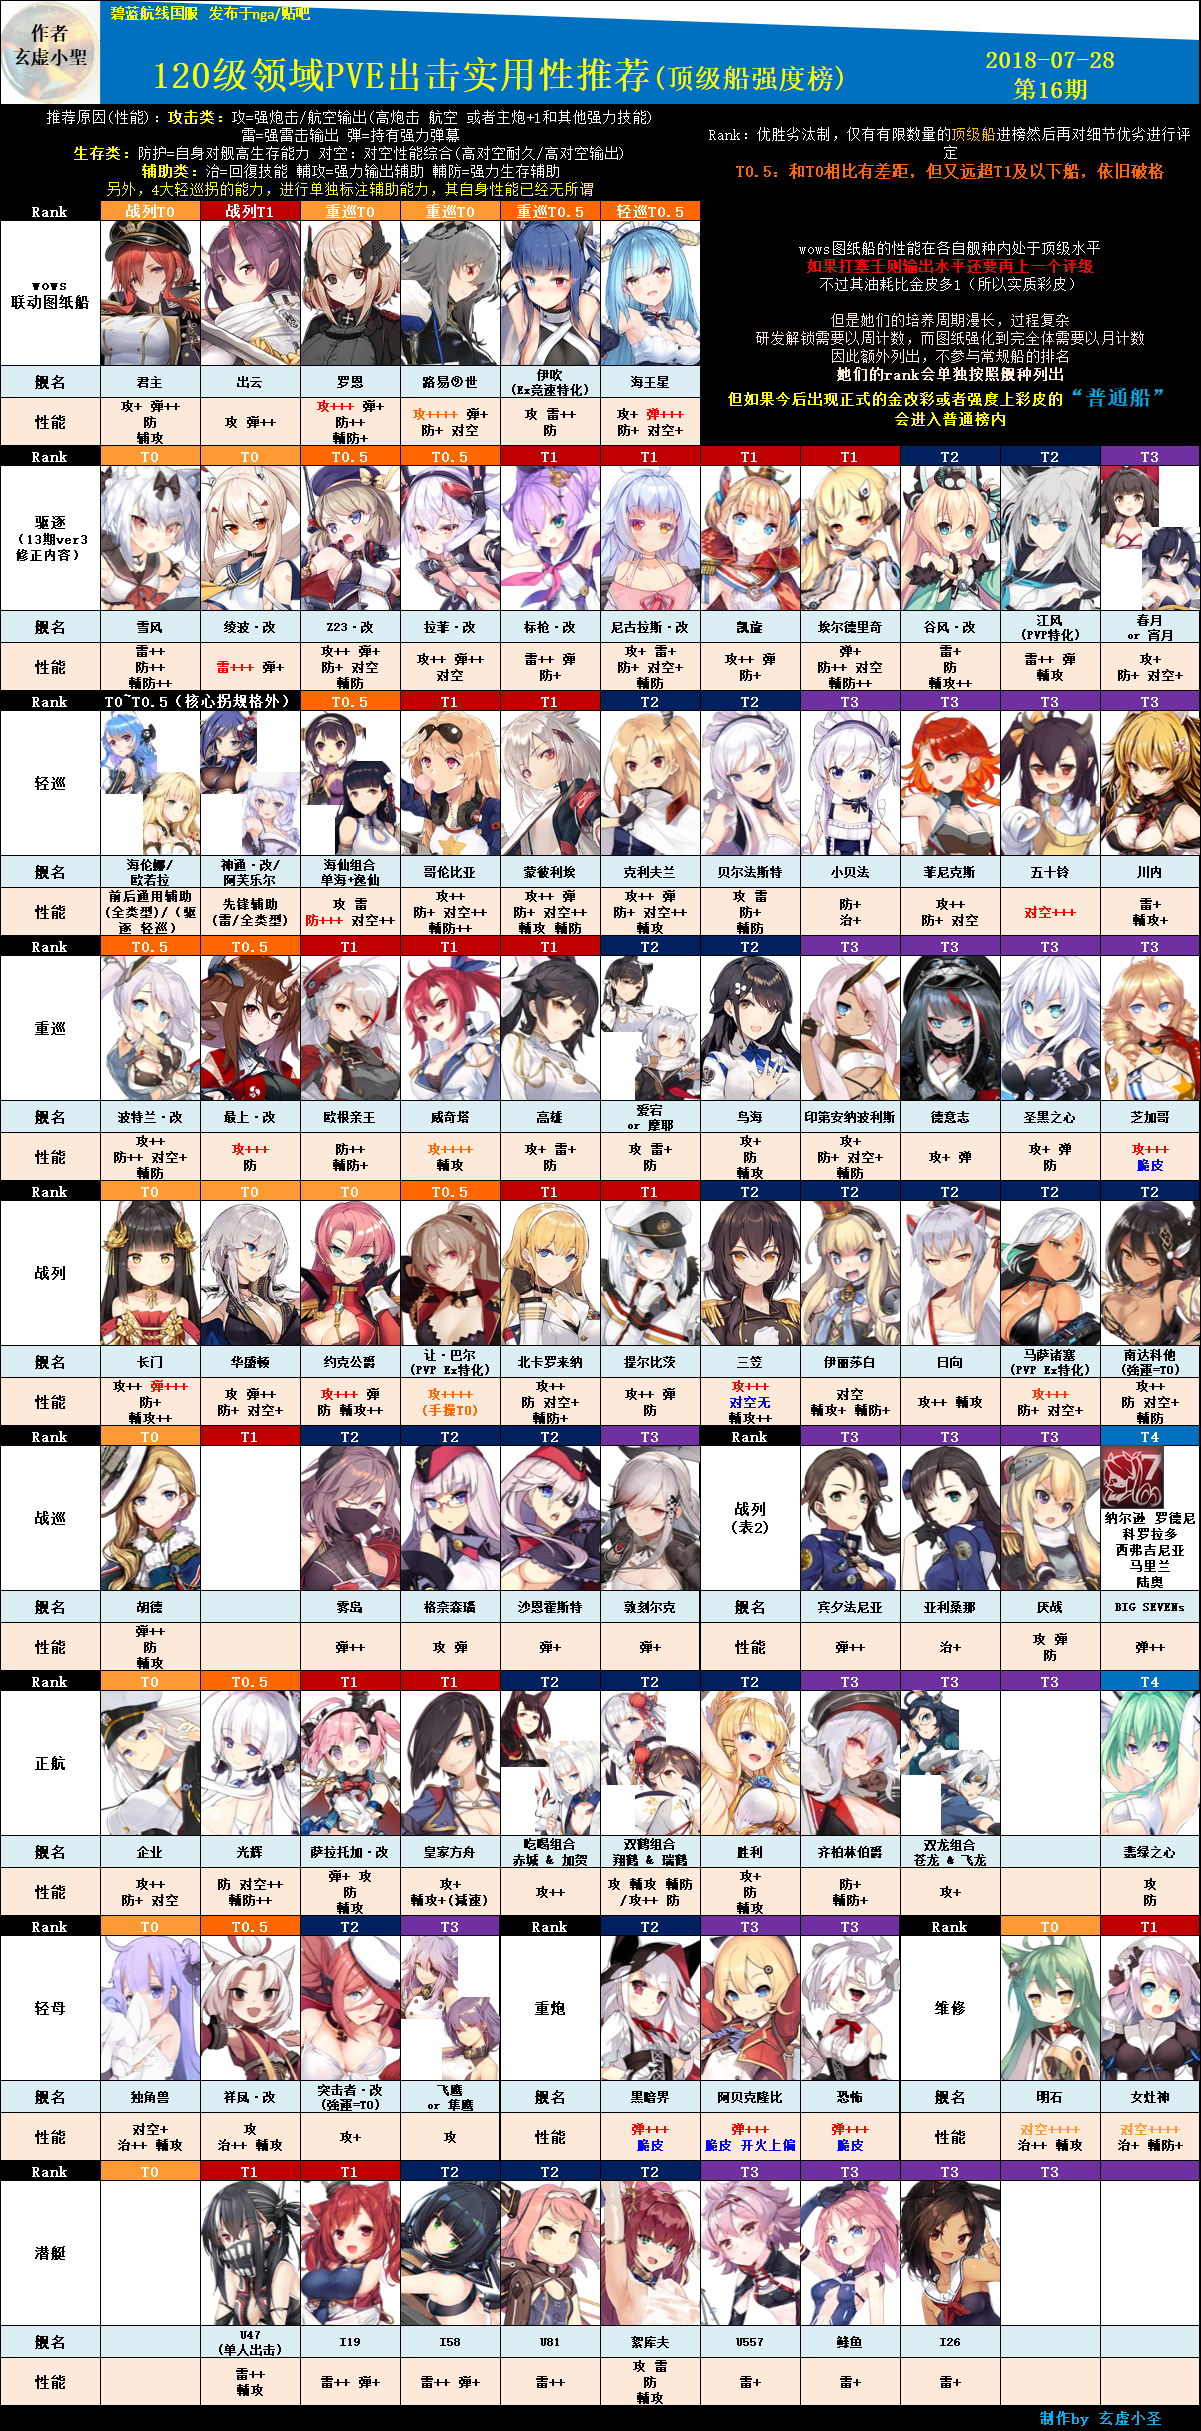
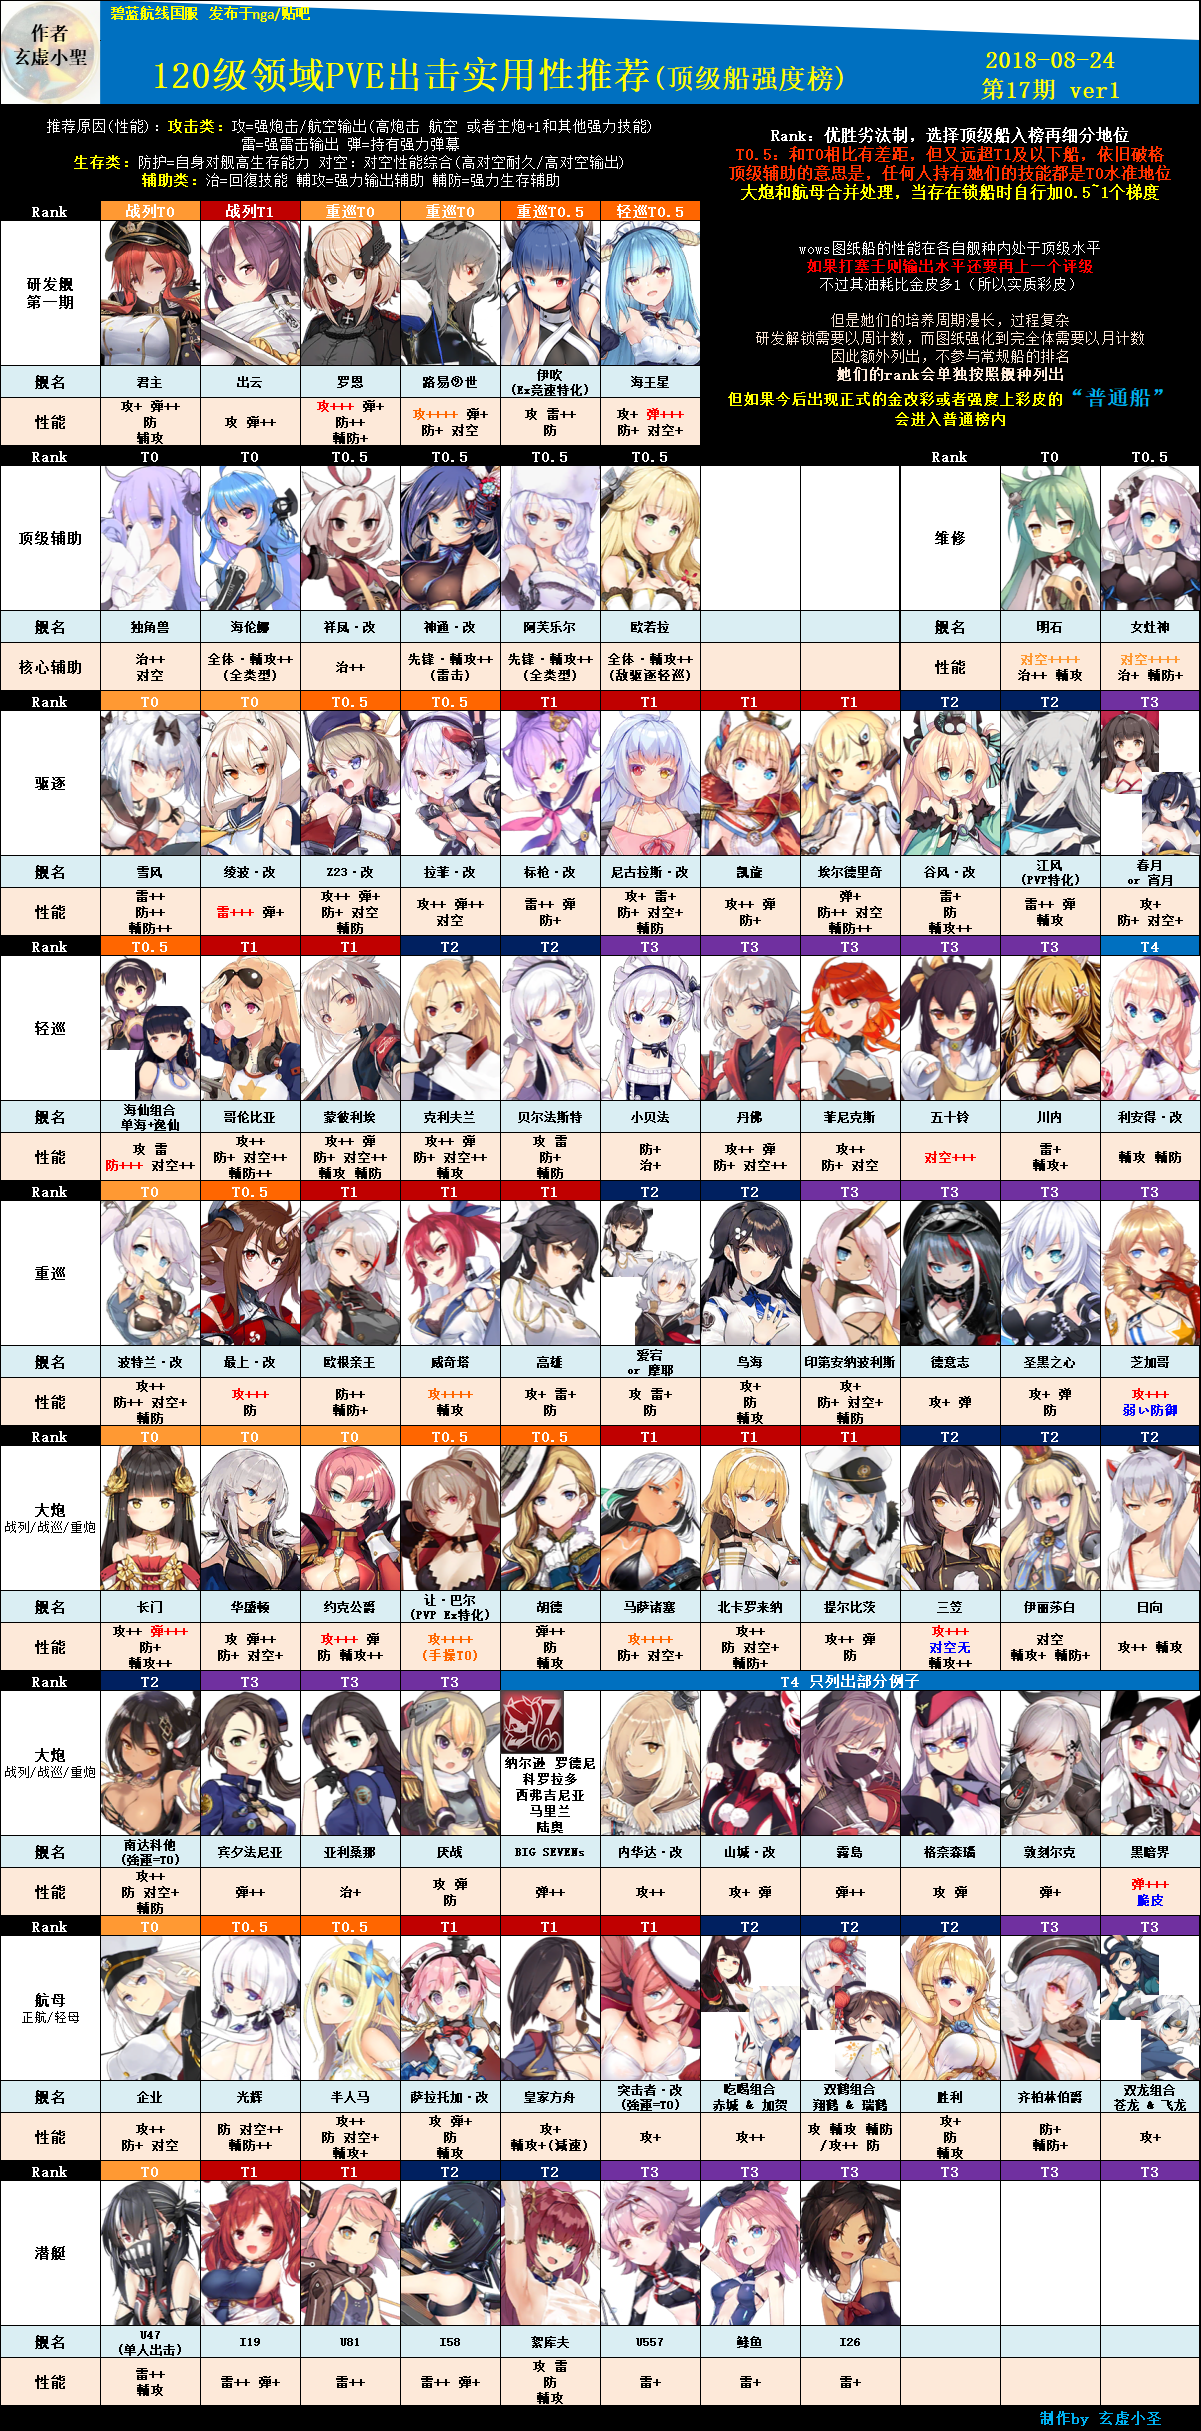
舰娘强度榜更新

diff --git a/碧蓝航线/舰娘强度榜-玄虚小圣 说明.md b/碧蓝航线/舰娘强度榜-玄虚小圣 说明.md
@@ -1,0 +1,64 @@
+## 更新说明:
+
+本期对结构进行优化
+
+将目前显著的顶级辅助单独列出
+
+顶级辅助的意思是，她们的技能强势到自身性能哪怕是可圈可点的(比如神通 海妈)但是主要功绩也是靠辅助技能
+
+可以说辅助技能给任何一个同类船都能取得差不多的地位
+
+然后后排的大炮和航母进行合并
+
+战列战巡重炮合并梯度，正航轻母合并梯度
+
+如果存在锁船，则自行对战巡 重炮 轻母增加0.5~1个梯度用于同类比较即可(根据锁船数量)
+
+这样即是承认，在不需要锁船时，战列战巡重炮的职责近似(打自爆 跨射伤害)，正航和轻母的职责也近似(清弹幕 航空伤害)
+
+当然轻母实质上存在反潜能力，只是目前反潜方式依旧要前排提供声呐，还是有鸡肋(前排反潜就足够)
+
+另外图纸舰虽然完全体已经陆续完成，但是暂时不下放到对应舰种里，要等到二期图纸舰出来
+
+
+## 改动:
+- 驱逐：
+
+    无变化
+
+- 轻巡：
+
+    把一直以来忘掉的丹佛加上，实际上丹佛虽然与火力全开，但是低了5%主炮效率的情况下，反而输出和克利夫兰是持平的，等于是标准白板克利夫兰级
+
+    增加个利安得作为T4举例
+
+    另外，虽然4个顶级辅助不在这一行了，但是神通 海妈 阿芙 欧若拉存在有稀少的，辅助技能无用的情况
+
+    换个形容就是衡量她们的自身素质，神通 海妈都是T3水平(海妈技能无用是敌舰生存时间太短的情况，神通则是队友全炮巡时，此时她们只作为纯输出使用)
+
+    阿芙 欧若拉则是T4(欧若拉不用多说，但是阿芙辅助无用只存在于自身单前排或者压根没升技能的时候)
+
+- 重巡：
+
+    无变化
+
+- 大炮：
+
+    合并后，大部分战巡和重炮都是T4，反应的是她们对比战列的水平差距
+    胡德也降为T0.5作为和君主的对比，不过锁船时胡德还是要作为T0看待的
+
+- 航母：
+
+    合并后，突击者纯粹作为输出看待，反而具有和方舟等同的地位，毕竟输出期望是不错，还可以期待一手欧皇爆发
+
+    而双鹰作为纯输出就不上台了，甚至不比独角兽 祥凤的输出高太多
+
+    半人马的表现很抢眼，毕竟实质正航，输出已经排到炸逼里的第二位，而且持有多种功能性，实际出场率反而可能更好
+
+- 潜艇：
+    单人出击的U47是T0，因为功能性，组U艇就只是T2了
+    而组U艇核心是U81，升到T1
+
+以上
+
+本期结构优化为实验性质，不排除下期继续大调整
